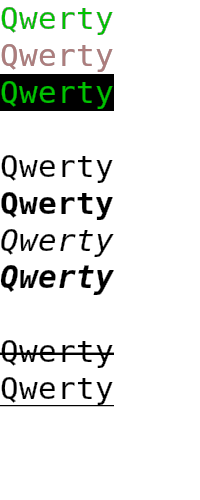
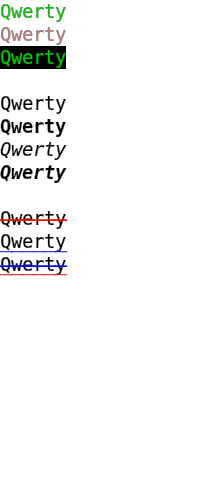
Allow control of strikethrough and underline color.

diff --git a/window_test.go b/window_test.go
@@ -21,7 +21,7 @@ func TestWindowVisualRegression(t *testing.T) {
 			name:   "text",
 			width:  200,
 			height: 500,
-			scale:  2.0,
+			scale:  1.2,
 			setupWindow: func(window *Window) {
 				window.SetDrawCallback(func(drawer Drawer, columns, rows int) {
 					drawText := func(text string, x, y float32, cell *Cell) {
@@ -40,8 +40,22 @@ func TestWindowVisualRegression(t *testing.T) {
 					drawText("Qwerty", 0, 6, &Cell{Fg: color.Black, Italic: true})
 					drawText("Qwerty", 0, 7, &Cell{Fg: color.Black, Bold: true, Italic: true})
 
-					drawText("Qwerty", 0, 9, &Cell{Fg: color.Black, Strikethrough: true})
-					drawText("Qwerty", 0, 10, &Cell{Fg: color.Black, Underline: true})
+					drawText("Qwerty", 0, 9, &Cell{
+						Fg:                 color.Black,
+						Strikethrough:      true,
+						StrikethroughColor: color.Red1})
+					drawText("Qwerty", 0, 10, &Cell{
+						Fg:             color.Black,
+						Underline:      true,
+						UnderlineColor: color.Blue1,
+					})
+					drawText("Qwerty", 0, 11, &Cell{
+						Fg:                 color.Black,
+						Strikethrough:      true,
+						StrikethroughColor: color.Blue1,
+						Underline:          true,
+						UnderlineColor:     color.Red1,
+					})
 				})
 
 				window.Draw()

diff --git a/window-draw.go b/window-draw.go
@@ -1,12 +1,13 @@
 package dull
 
 import (
-	"github.com/pekim/dull/color"
-	"github.com/pekim/dull/geometry"
-	"github.com/pekim/dull/internal/font"
 	"image"
 	"time"
 	"unsafe"
+
+	"github.com/pekim/dull/color"
+	"github.com/pekim/dull/geometry"
+	"github.com/pekim/dull/internal/font"
 
 	"github.com/go-gl/gl/v3.3-core/gl"
 )
@@ -85,11 +86,19 @@ func (w *Window) DrawCell(cell *Cell, column, row float32) {
 
 	if cell.Strikethrough {
 		// COMBINING LONG STROKE OVERLAY
-		w.drawRune(columnI, rowI, '\u0336', cell.Fg, w.fontFamily.Font(cell.Bold, cell.Italic))
+		w.drawRune(
+			columnI, rowI,
+			'\u0336',
+			cell.StrikethroughColor,
+			w.fontFamily.Font(cell.Bold, cell.Italic))
 	}
 	if cell.Underline {
 		// COMBINING LOW LINE
-		w.drawRune(columnI, rowI, '\u0332', cell.Fg, w.fontFamily.Font(cell.Bold, cell.Italic))
+		w.drawRune(
+			columnI, rowI,
+			'\u0332',
+			cell.UnderlineColor,
+			w.fontFamily.Font(cell.Bold, cell.Italic))
 	}
 }
 

diff --git a/cell.go b/cell.go
@@ -30,8 +30,14 @@ type Cell struct {
 
 	// Underline denotes whether the Rune should be underlined (underscored).
 	Underline bool
+	// UnderlineColor is the colour of the underline.
+	// It is ignored unless Underline is true
+	UnderlineColor color.Color
 	// Strikethrough denotes whether the Rune should be struckthrough.
 	Strikethrough bool
+	// StrikethroughColor is the colour of the strikethrough
+	// It is ignored unless SetTitle is true
+	StrikethroughColor color.Color
 
 	// Invert denotes whether the foreground and background colours should be reversed.
 	Invert bool
